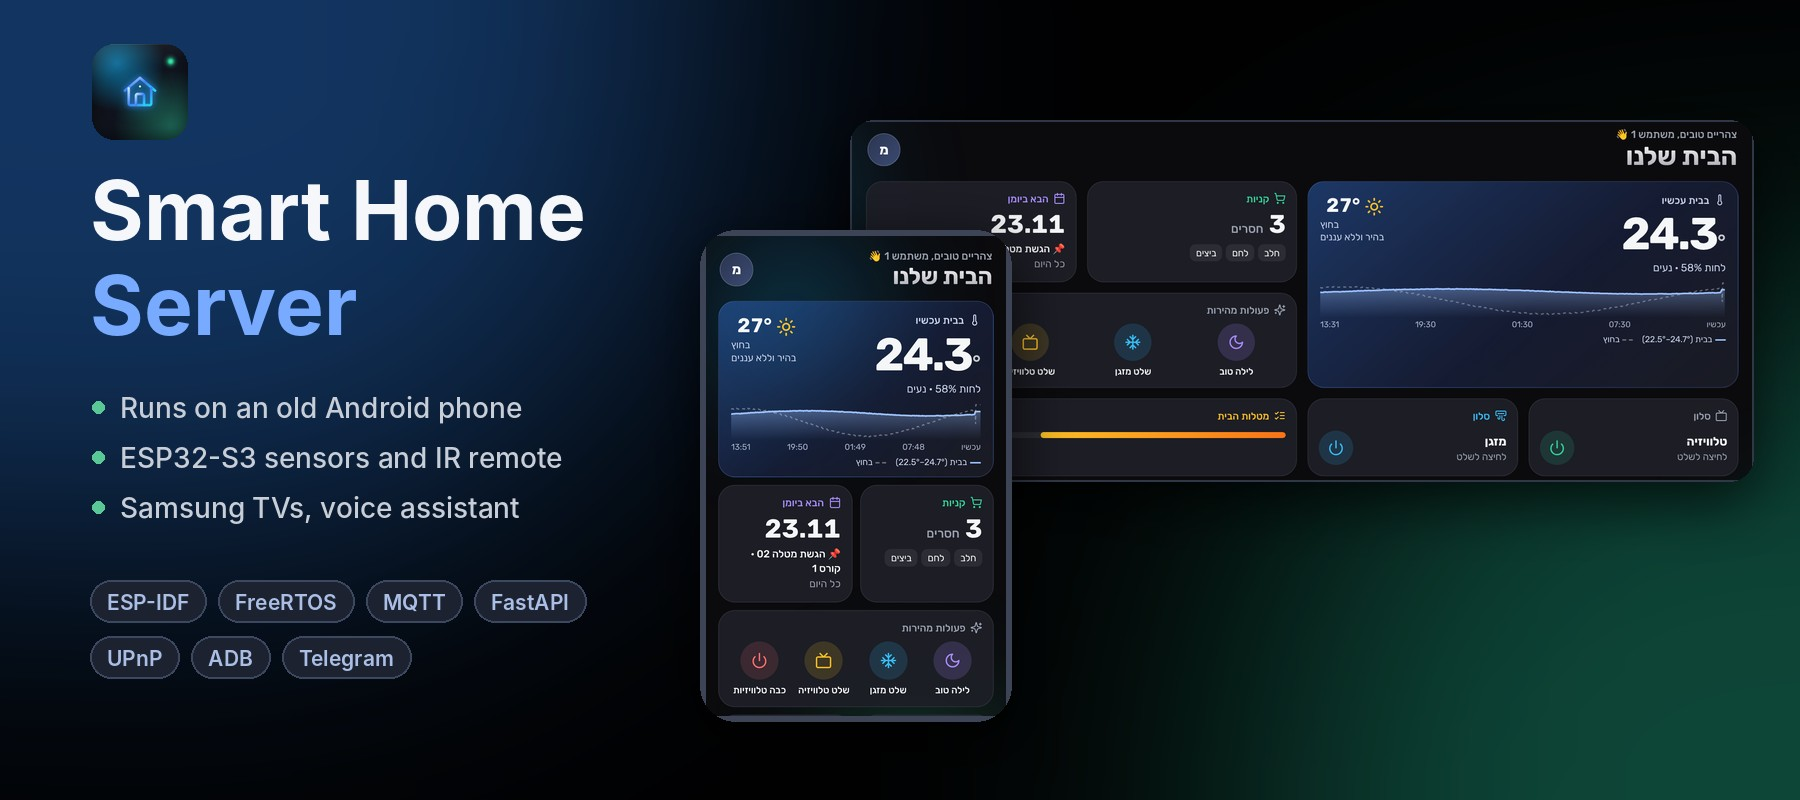
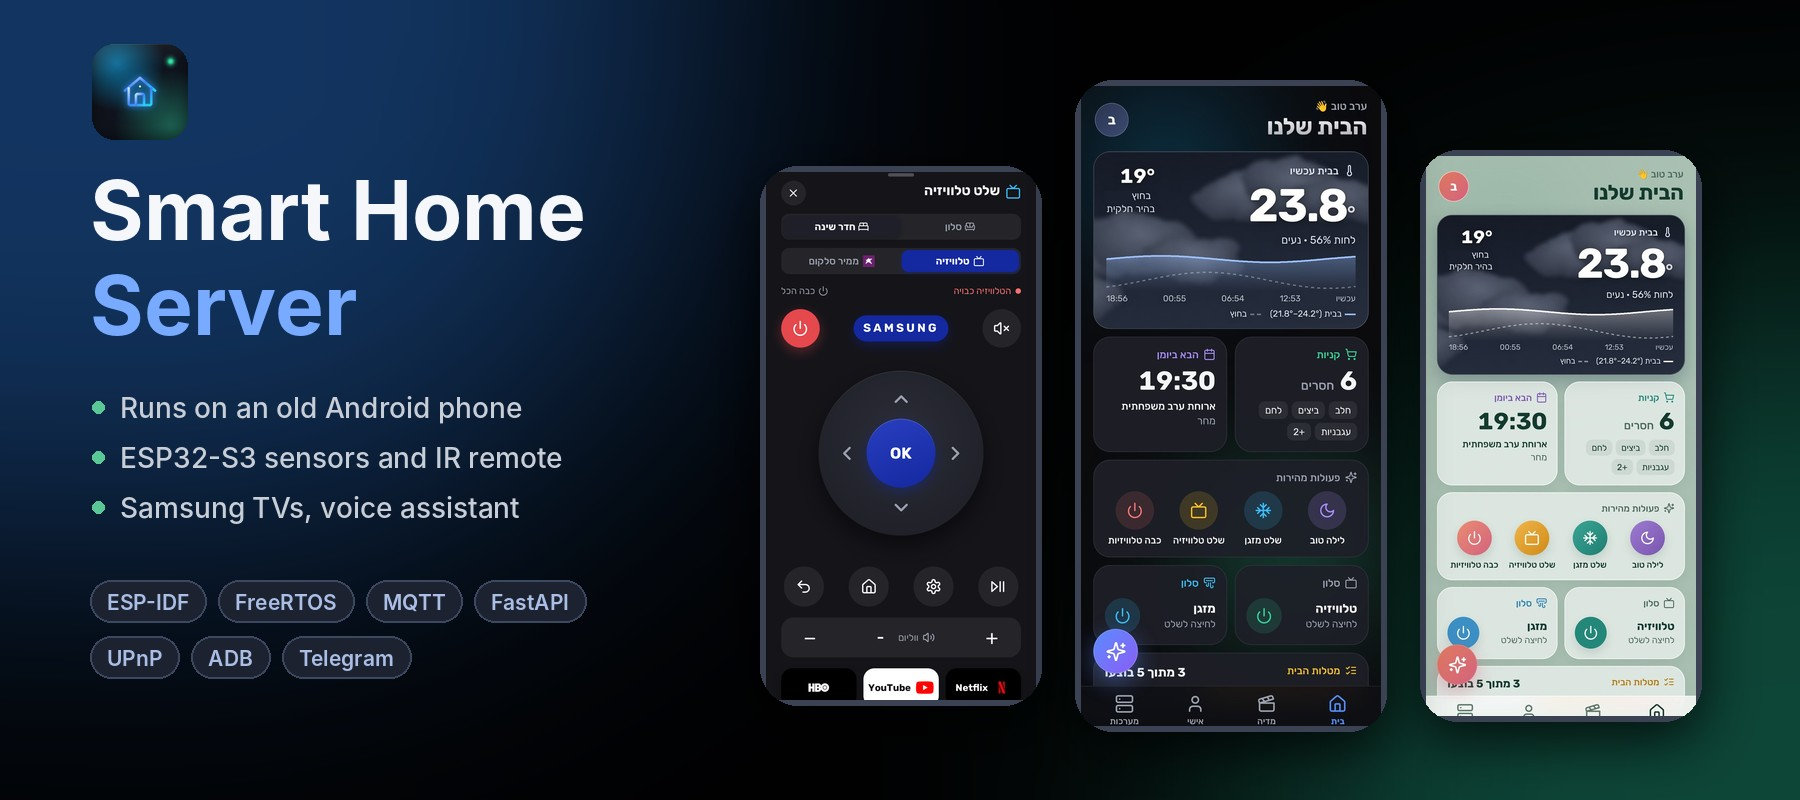
New screenshots: two themes, Samsung remotes, matches, weather, updates and developer mode

Changed region(s): [[0.3733, 0.0938, 0.9956, 0.9375]]

diff --git a/README.md b/README.md
@@ -30,19 +30,53 @@ No cloud server, no subscription, no open ports on the router: everything runs a
 
 ## Screenshots
 
-### Home screen
+### Home screen, two themes
 
-<img src="docs/images/dashboard.jpg" alt="Home dashboard" width="100%">
-
-<p align="center">
-  <img src="docs/images/dashboard_mobile.jpg" alt="Home dashboard on iPhone" width="360"><br>
-  <sub>The same dashboard on an iPhone</sub>
-</p>
+<table>
+  <tr>
+    <td width="50%" valign="top"><img src="docs/images/home_dark.jpg" alt="Home screen, dark theme"><br><sub><b>Dark theme</b> (user A)</sub></td>
+    <td width="50%" valign="top"><img src="docs/images/home_light.jpg" alt="Home screen, light theme"><br><sub><b>Light theme</b> (user B)</sub></td>
+  </tr>
+</table>
 
 ### Remotes
-AC remote (IR, sent by the ESP32) and TV remote.
 
-<img src="docs/images/remotes.jpg" alt="AC and TV remotes" width="100%">
+<table>
+  <tr>
+    <td width="33%" valign="top"><img src="docs/images/remote_bedroom.jpg" alt="Bedroom TV remote"><br><sub><b>Bedroom TV</b> (Tizen), with a TV/box toggle and exact volume</sub></td>
+    <td width="33%" valign="top"><img src="docs/images/remote_living_room.jpg" alt="Living-room TV remote"><br><sub><b>Living-room TV</b> (2013 model, legacy protocol), inputs switched over UPnP</sub></td>
+    <td width="33%" valign="top"><img src="docs/images/remote_ac.jpg" alt="AC remote"><br><sub><b>AC</b> (IR through the ESP32), with a learning mode</sub></td>
+  </tr>
+</table>
+
+### My matches
+
+<table>
+  <tr>
+    <td width="33%" valign="top"><img src="docs/images/match_live.jpg" alt="Live match and next match"><br><sub><b>Live score</b> and a countdown to the next match</sub></td>
+    <td width="33%" valign="top"><img src="docs/images/match_lineups.jpg" alt="Match lineups"><br><sub><b>Lineups</b> drawn on a pitch</sub></td>
+    <td width="33%" valign="top"><img src="docs/images/match_table.jpg" alt="League table"><br><sub><b>League table</b> with both teams highlighted</sub></td>
+  </tr>
+</table>
+
+### Weather and personal area
+
+<table>
+  <tr>
+    <td width="50%" valign="top"><img src="docs/images/weather_sheet.jpg" alt="Weather sheet"><br><sub><b>Weather:</b> home (ESP32 sensor) vs outside (Open-Meteo), hourly and 7-day forecast</sub></td>
+    <td width="50%" valign="top"><img src="docs/images/personal.jpg" alt="Personal area"><br><sub><b>Personal area:</b> weekly workout goal and the next match</sub><br><br><img src="docs/images/recipes.jpg" alt="Recipe book" width="70%"><br><sub><b>Recipe book</b></sub></td>
+  </tr>
+</table>
+
+### Assistant and maintenance
+
+<table>
+  <tr>
+    <td width="33%" valign="top"><img src="docs/images/ai_assistant.jpg" alt="AI assistant"><br><sub><b>AI assistant</b> turning on the living-room TV</sub></td>
+    <td width="33%" valign="top"><img src="docs/images/updates.jpg" alt="Update history"><br><sub><b>Updates:</b> deploy history with one-tap rollback</sub></td>
+    <td width="33%" valign="top"><img src="docs/images/dev_mode.jpg" alt="Developer mode"><br><sub><b>Developer mode:</b> a whitelisted in-app terminal</sub></td>
+  </tr>
+</table>
 
 ### Monitoring
 
@@ -50,16 +84,6 @@ AC remote (IR, sent by the ESP32) and TV remote.
   <tr>
     <td width="50%" valign="top"><img src="docs/images/esp32_health.jpg" alt="ESP32 health"><br><sub><b>ESP32 health:</b> messages received vs expected, and an outage log with a probable cause</sub></td>
     <td width="50%" valign="top"><img src="docs/images/server_status.jpg" alt="Server status"><br><sub><b>Server status:</b> battery, services, uptime and Wi-Fi of the phone</sub></td>
-  </tr>
-</table>
-
-### Everyday features
-
-<table>
-  <tr>
-    <td width="33%" valign="top"><img src="docs/images/ai_assistant.jpg" alt="AI assistant"><br><sub><b>AI assistant</b> turning on the living-room TV</sub></td>
-    <td width="33%" valign="top"><img src="docs/images/recipes.jpg" alt="Recipe book"><br><sub><b>Recipe book</b></sub></td>
-    <td width="33%" valign="top"><img src="docs/images/workouts.jpg" alt="Workout tracker"><br><sub><b>Workout tracker</b></sub></td>
   </tr>
 </table>
 
@@ -96,7 +120,7 @@ Uptime at the time of writing: **45 days** without a reboot.
 
 **Safe deploys with rollback.** Code is only edited on the laptop. One script sends it to the phone, where the installer refuses any package that contains data or secrets, syntax-checks every Python and shell file, backs up the running version, installs only the files that changed and restarts only what needs it. Mosquitto is never restarted, so the ESP32 stays connected. If the new server does not answer, the backup is restored automatically. Any earlier version can also be restored from the app.
 
-**Faster TV status.** Device checks run in parallel, a TV that is off is not asked for its volume, and statuses are cached for a few seconds. The app shows the last known state immediately while it refreshes.
+**Faster TV control.** Device checks run in parallel, a TV that is off is not asked for its volume, and statuses are cached for a few seconds. TV commands run as background jobs, so when buttons are pressed quickly only the latest command is carried out. The app shows the last known state immediately while it refreshes, and responses are compressed.
 
 | Request (measured on the phone) | Before | After |
 |---|---|---|
